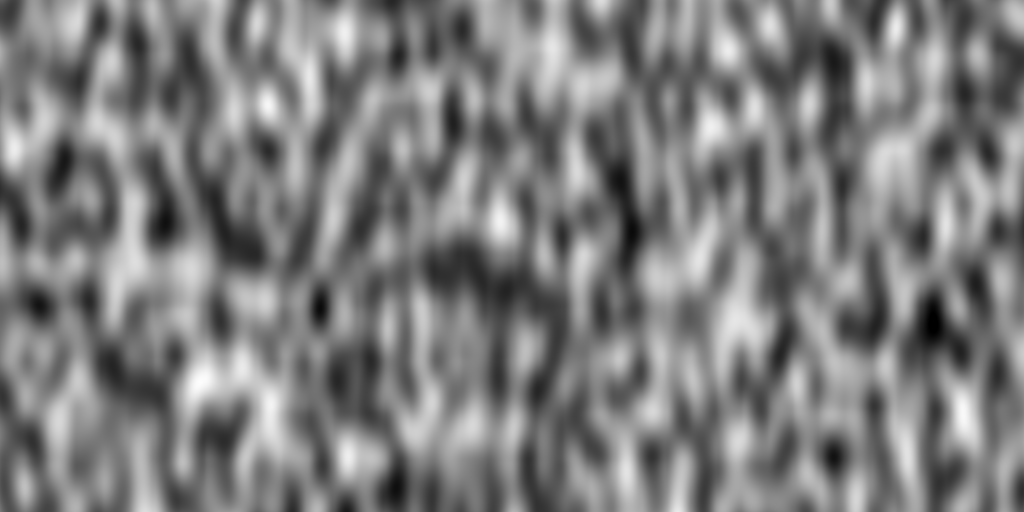
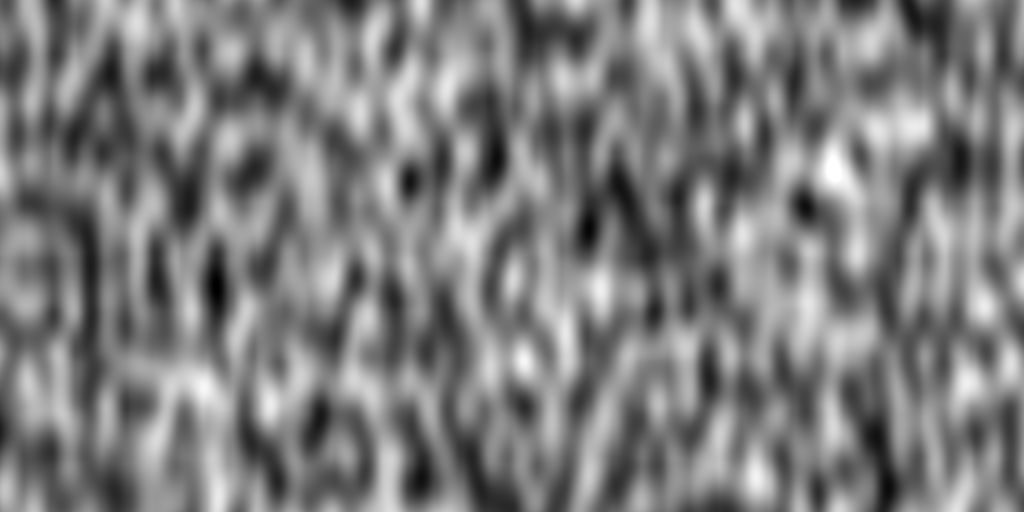
First commit of Worley Noise.

diff --git a/DrawImage.py b/DrawImage.py
@@ -1,6 +1,7 @@
 from PIL import Image
 from NoiseModifiers import *
 from FractalNoise import *
+from Worley2d import *
 
 
 def draw_image(source, width=1024, height=512, name="test.png", scale=10):
@@ -14,12 +15,16 @@ def draw_image(source, width=1024, height=512, name="test.png", scale=10):
 
 
 if __name__ == "__main__":
-    n = Apply(Scale(NormalizedPerlin3d(), 128), lambda x: x + 128)
-    draw_image(n, name="Examples/Noise.png")
-    n = Apply(Scale(FracalNoise(PerlinNoise3d()), 128), lambda x: x + 128)
-    draw_image(n, name="Examples/FractalNoise.png")
-    n = Scale(Abs(FracalNoise(PerlinNoise3d())), 400)
-    draw_image(n, name="Examples/AbsFractalNoise.png")
-    n = Apply(Scale(Apply(Combine(ApplyToPoint(lambda x: x[0]), FracalNoise(Abs(PerlinNoise3d())),
-                                  (lambda x, y: x + y)), sin), 128), lambda x: x + 128)
-    draw_image(n, name="Examples/Stripes.png")
+    n = Scale(Worley2d(), 256)
+    draw_image(n, name="Examples/Worley.png")
+    # n = Apply(Scale(NormalizedPerlin3d(), 128), lambda x: x + 128)
+    # draw_image(n, name="Examples/Noise.png")
+    # n = Apply(Scale(FracalNoise(PerlinNoise3d()), 128), lambda x: x + 128)
+    # draw_image(n, name="Examples/FractalNoise.png")
+    # n = Scale(Abs(FracalNoise(PerlinNoise3d())), 400)
+    # draw_image(n, name="Examples/AbsFractalNoise.png")
+    # n = Apply(Scale(Apply(Combine(ApplyToPoint(lambda x: x[0]), FracalNoise(Abs(PerlinNoise3d())),
+    #                               (lambda x, y: x + y)), sin), 128), lambda x: x + 128)
+    # draw_image(n, name="Examples/Stripes.png")
+    # n = Scale(FracalNoise(Abs(PerlinNoise3d())), 400)
+    # draw_image(n, name="Examples/FractalTurbulentNoise.png")

diff --git a/Worley2d.py b/Worley2d.py
@@ -1,0 +1,41 @@
+from VectorOps import *
+import random
+
+
+class Worley2d:
+    def __init__(self, seed=0, cells_per_unit=1, distance=euclidean_distance, combiner=None, points_to_combine=3):
+        self.seed = seed
+        self.cells_per_unit = cells_per_unit
+        self.distance = distance
+        self.points_to_combine = points_to_combine
+        self.combiner = combiner
+        if self.combiner is None:
+            self.combiner = self.closest_combiner
+
+    def noise(self, point):
+        xint = int(point[0]) % 256
+        yint = int(point[1]) % 256
+        point_off = [point[0] - xint, point[1] - yint]
+        dists = []
+        for xoff in [-1, 0, 1]:
+            for yoff in [-1, 0, 1]:
+                r = random.Random()
+                r.seed(self._hash(xint + xoff, yint + yoff))
+                for i in range(self.cells_per_unit):
+                    dist = self.distance([xoff + r.uniform(0, 1), yoff + r.uniform(0, 1)], point_off)
+                    dists = self._dist_helper(dists, dist)
+        return self.combiner(dists)
+
+    @staticmethod
+    def closest_combiner(points):
+        return points[0]
+
+    def _hash(self, x, y):
+        return 31 * (31 * x + y) + self.seed
+
+    def _dist_helper(self, dists, dist):
+        dists.append(dist)
+        dists.sort()
+        if len(dists) > self.points_to_combine:
+            dists.pop(-1)
+        return dists

diff --git a/VectorOps.py b/VectorOps.py
@@ -1,6 +1,9 @@
+from math import *
+
+
 def dot(a, b):
     if len(a) != len(b):
-        raise ArithmeticError("Dot product of vectors with lengths" + str(len(a)) + " and " + str(len(b))
+        raise ArithmeticError("Dot product of vectors with dimensions" + str(len(a)) + " and " + str(len(b))
                               + " is undefined")
     dp = 0
     for i in range(len(a)):
@@ -10,3 +13,16 @@ def dot(a, b):
 
 def add_vector(a, b):
     return [a[i] + b[i] for i in range(len(a))]
+
+def subtract_vector(a, b):
+    return [a[i] - b[i] for i in range(len(a))]
+
+def euclidean_distance(a, b):
+    dif = subtract_vector(a, b)
+    return sqrt(dot(dif, dif))
+
+def manhattan_distance(a, b):
+    reduce(lambda x, y: x + y, map(lambda x, y: abs(x - y), a, b))
+
+def chebyshev_distance(a, b):
+    reduce(max, map(lambda x, y: abs(x - y), a, b))
